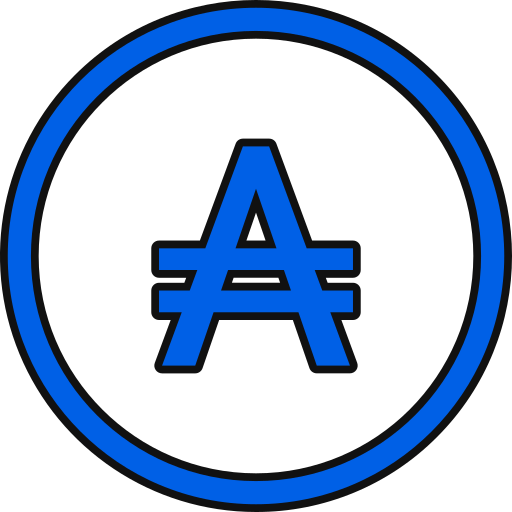
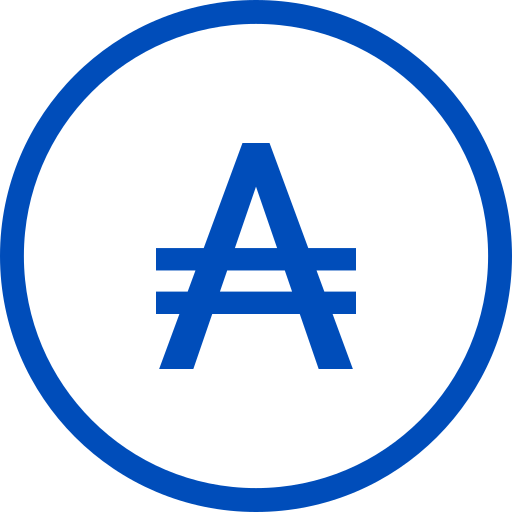
modified:   public/austral.png 	modified:   src/components/AdaPrice.tsx 	modified:   src/components/CardanoStats.tsx

diff --git a/src/components/AdaPrice.tsx b/src/components/AdaPrice.tsx
@@ -21,7 +21,7 @@ const AdaPricePanel = () => {
 
   useEffect(() => {
     fetchAdaPrice();
-    const intervalId = setInterval(fetchAdaPrice, 20000); // Refresh every 20 seconds
+    const intervalId = setInterval(fetchAdaPrice, 1800000); // Refresh every 30 minutes
     return () => clearInterval(intervalId);
   }, []);
 
@@ -30,14 +30,20 @@ const AdaPricePanel = () => {
   };
 
   return (
-    <div className="max-w-4xl w-full bg-gray-800 rounded-lg shadow-md p-6 mb-4">
+    <div className="max-w-4xl w-full bg-gray-800 rounded-lg shadow-md p-4 mb-1">
       {error ? (
         <p className="text-red-500">Error: {error}</p>
       ) : (
         <div>
-          <ul className="text-gray-300 space-y-2">
+          {/* Header with ADA icon and title */}
+          <div className="flex items-center mb-4">
+            <img src="/austral.png" alt="ADA Icon" className="w-11 h-11 mr-2" />
+            <h2 className="text-lg text-gray-300 font-bold ml-3">ADA</h2>
+          </div>
+
+          <ul className="text-gray-300 space-y-1">
             <li className="flex justify-between text-xs">
-              <span className="mr-40 mt-2">
+              <span style={{ marginRight: '194px' }} className="mt-1">
                 <i className="fas fa-chart-line text-blue-400"></i> <strong>RANK</strong>
               </span>
               <span className="text-blue-400 text-sm mt-2 custom-font">
@@ -45,19 +51,19 @@ const AdaPricePanel = () => {
               </span>
             </li>
             <li className="flex justify-between text-xs">
-              <span className="mr-40 mt-2">
-                <i className="fas fa-dollar-sign text-blue-400"></i> <strong>PRICE</strong>
+              <span style={{ marginRight: '194px' }} className="mt-1">
+                <i className="fas fa-dollar-sign text-blue-400"></i> <strong>PRICE (USD)</strong>
               </span>
               <span className="text-blue-400 text-sm custom-font">
-                {loading ? <FontAwesomeIcon icon={faSpinner} spin /> : adaPrice?.price || "N/A"}
+                {loading ? <FontAwesomeIcon icon={faSpinner} spin /> : `$${adaPrice?.price || "N/A"}`}
               </span>
             </li>
             <li className="flex justify-between text-xs">
-              <span className="mr-40 mt-2">
+              <span style={{ marginRight: '194px' }} className="mt-2">
                 <i className="fas fa-landmark text-blue-400"></i> <strong>MARKET CAP</strong>
               </span>
               <span className="text-blue-400 text-sm custom-font">
-                {loading ? <FontAwesomeIcon icon={faSpinner} spin /> : formatNumber(adaPrice?.marketCap) || "N/A"}
+                {loading ? <FontAwesomeIcon icon={faSpinner} spin /> : `$${formatNumber(adaPrice?.marketCap) || "N/A"}`}
               </span>
             </li>
           </ul>

diff --git a/src/components/CardanoStats.tsx b/src/components/CardanoStats.tsx
@@ -63,7 +63,7 @@ const CardanoStats = () => {
       {error ? (
         <p className="text-red-500">Error: {error}</p>
       ) : (
-        <div className="max-w-4xl w-full bg-gray-800 rounded-lg shadow-md p-6 mb-4">
+        <div className="max-w-4xl w-full bg-gray-800 rounded-lg shadow-md p-4 mb-4">
           {/* Epoch Progress Bar at the top */}
           <div className="flex items-center justify-between mb-6">
             <div className="flex items-center">
